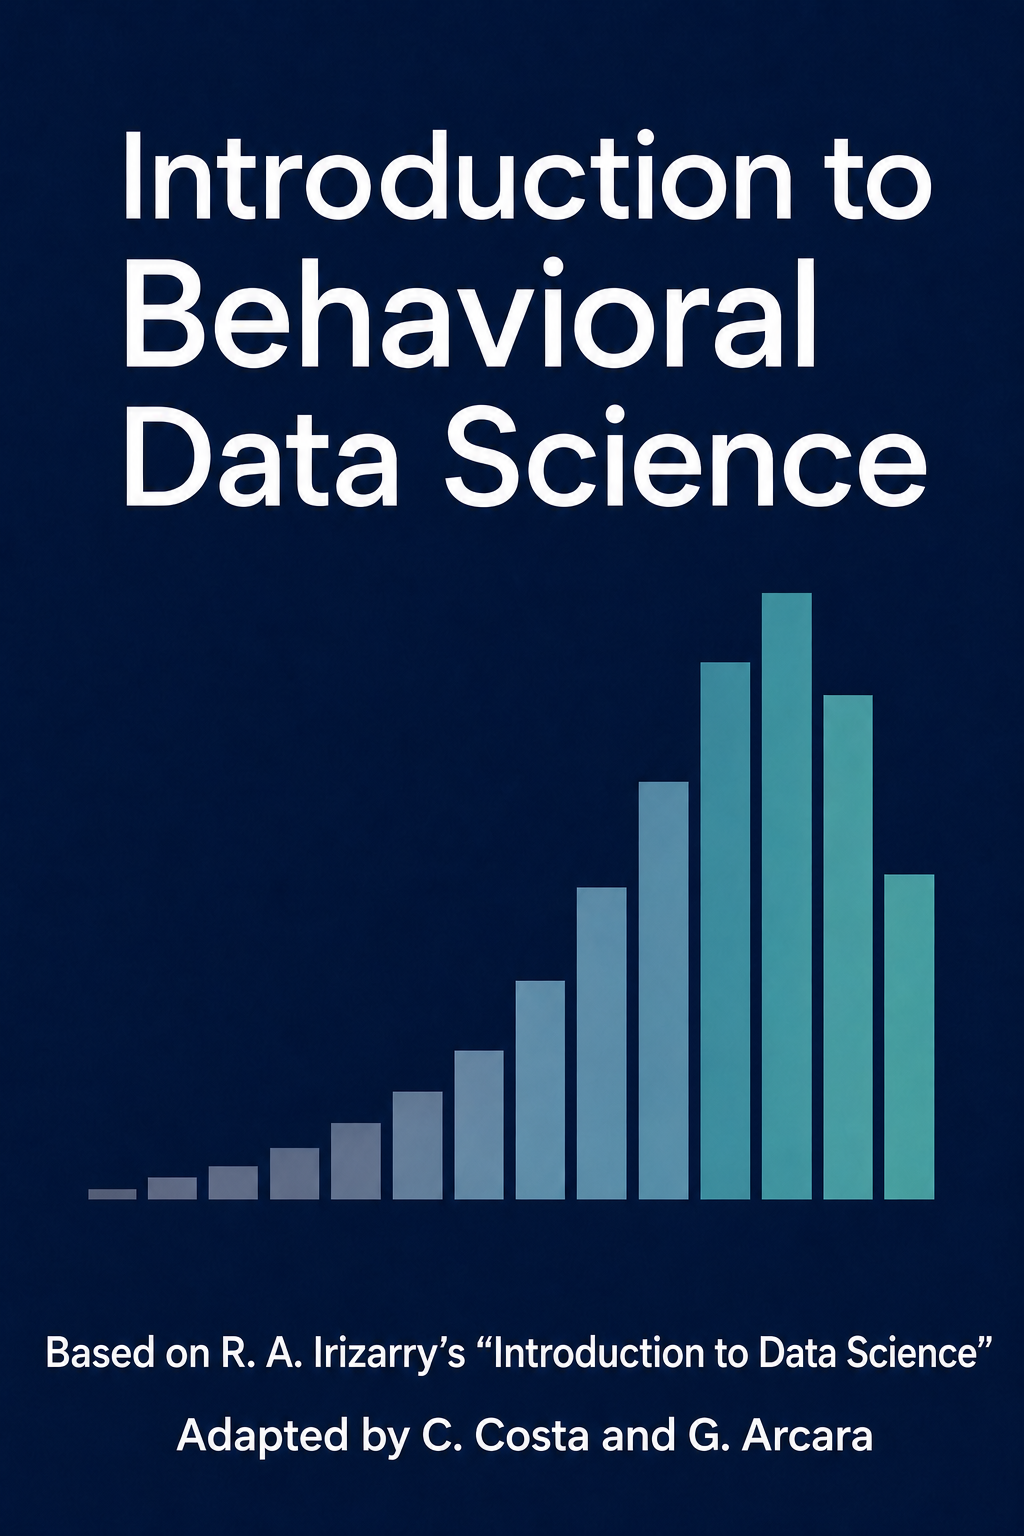
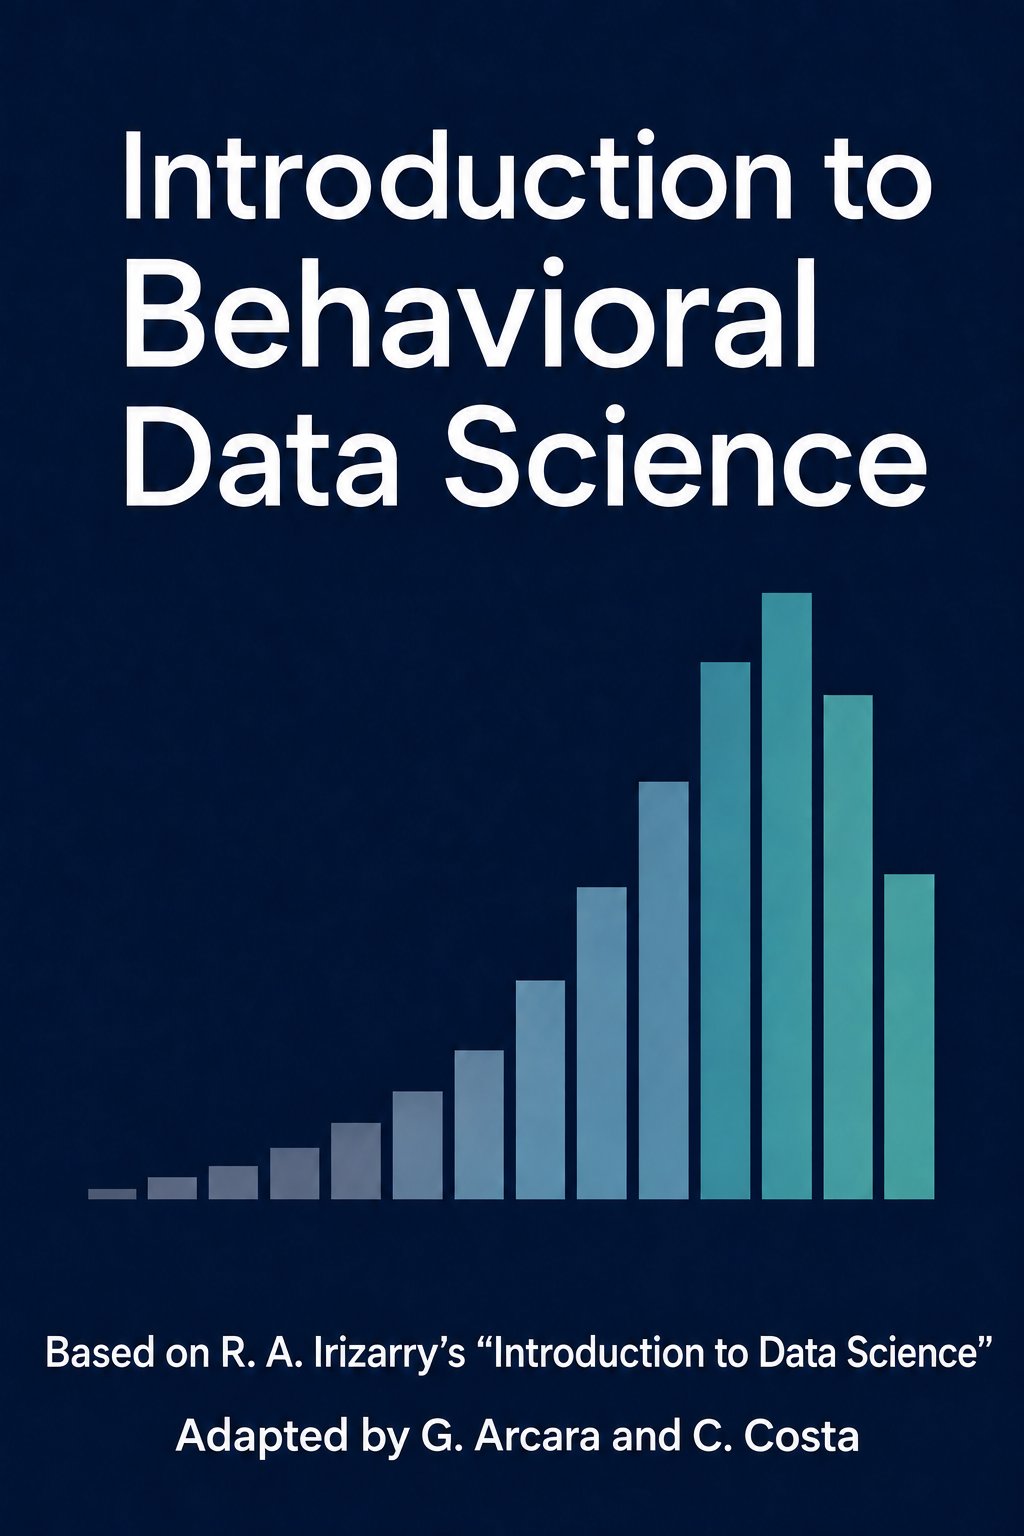
added new cover text and embedded cover in pdf rendering

diff --git a/cover-page.tex b/cover-page.tex
@@ -1,0 +1,6 @@
+\begin{titlepage}
+\centering
+\vspace*{\fill}
+\includegraphics[width=\linewidth,keepaspectratio]{cover.png}
+\vspace*{\fill}
+\end{titlepage}
